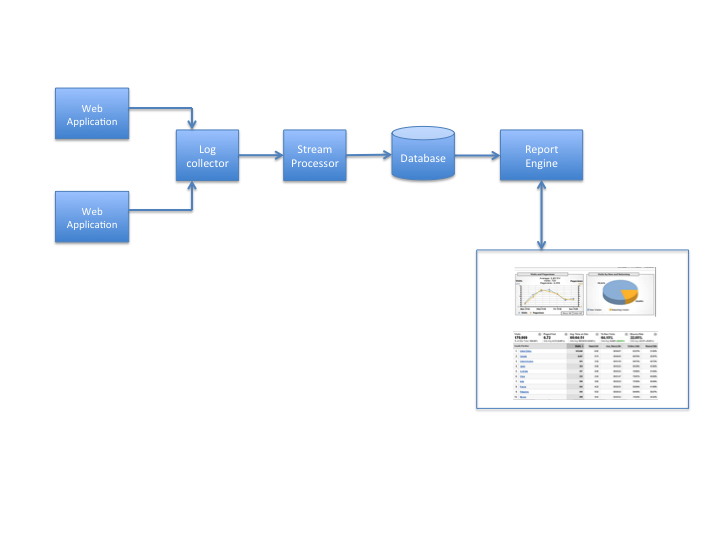
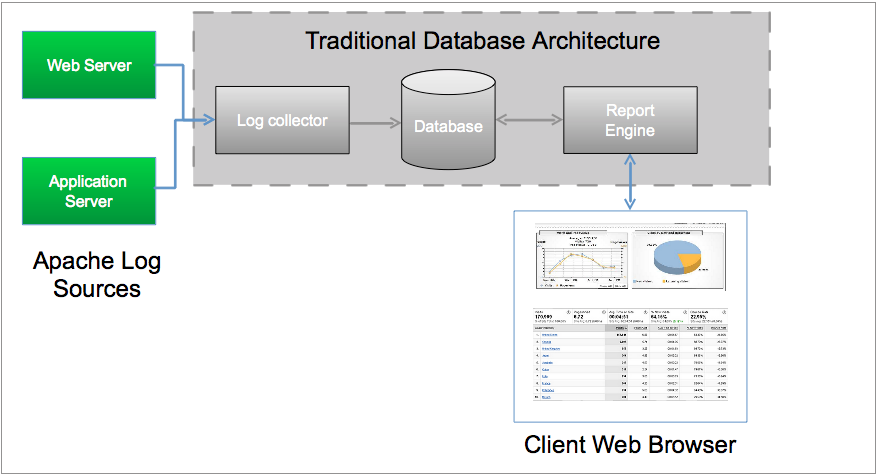
Revised intro with contributions from Raj; new diagrams

diff --git a/docs/developer-guide/source/intro.rst b/docs/developer-guide/source/intro.rst
@@ -9,98 +9,135 @@ Introduction to Continuuity Reactor
 
 .. reST Editor: contents::
 
-Big Data Applications
-=====================
-Big data applications are applications built to process unpredictable volumes and velocity of data. Building big data applications is challenging on many fronts — the following section will introduce some of the challenges in building big data applications.
+The Challenge of Big Data Applications
+======================================
+Data is compounding at a massive rate. Applications are becoming increasingly complex and data-intensive as developers try to extract value from the enormous trove of information. These applications, dubbed Big Data applications, scale with the unpredictable volume and velocity of incoming data with no need for re-architecting even while dealing with hundreds of petabytes of data. But building Big Data applications is difficult on many fronts.
 
-Challenges in Building Big Data Applications
---------------------------------------------
+The challenge of building big data applications are manifold:
 
-Challenges in building big data applications are manifold.
+Steep learning curve
+--------------------
 
-#. Expanding application development concerns in application and infrastructure level
+As an application developer building a data-intensive application, 
+you are primarily concerned with four areas:
 
-   One of the main challenges in building a Big Data application is that an application developer
-   has to focus not just on the application layer of code—the business logic—but also on the infrastructure layer,
-   making technical decisions about the underlying technology frameworks, which ones to use and how to integrate
-   them together into an effective application.
+ #. Data collection framework
+ #. Data processing framework
+ #. Data storage framework
+ #. Data serving framework
 
-#. Steeper learning curve
+There are many technology frameworks to choose from in each of these four areas.
+Data storage alone runs the gamut from open-source projects to proprietary relational databases.
+Evaluating the pros and cons of each of these technology frameworks, becoming competent,
+and then learning them to use them effectively requires climbing a very steep learning curve. 
 
-   Broadly speaking, the application developer will be concerned with developing four areas:
+No integrated framework, numerous integration points
+----------------------------------------------------
 
-   #. Data collection framework
-   #. Data processing framework
-   #. Data storage framework
-   #. Data serving framework
+One of the main challenges in building a Big Data application is that
+as an application developer you have to focus not only on the application layer of code
+but also on the the infrastructure layer. As highlighted above, 
+first you have to make choices about the underlying technology frameworks
+and then you need to spend time integrating the different pieces of technology
+together to start building your application. 
+Each of the technology frameworks come with their own APIs making it harder to integrate them quickly.
 
-   There are numerous technical choices in each of these four areas; understanding
-   and evaluating the pros and cons of each of the technical areas and learning them
-   to effectively build an application requires climbing a very steep learning curve.
+Lack of development tools
+-------------------------
 
-#. Various integration points
+Big data application development involves dealing with technology frameworks
+in a distributed system environment,
+and there is no development framework that makes it easy to develop, test and debug
+these types of applications. Debugging is especially difficult in a distributed environment.
+Sometimes you have no choice but to scan through hundred of lines of log files
+to debug your application.
 
-   Putting together technologies to collect, process, store and serve data
-   using different infrastructure components would require a huge integration
-   efforts from the application developer. Each of the components come with
-   their own APIs making it harder to integrate them quickly.
+No monitoring solutions
+-----------------------
 
-#. Operability of different infrastructure components
+Once your application is ready for production, you'll need to monitor and manage it.
+Operability of each of the technology frameworks presents its own set of challenges.
+A lack of proper tools makes application operations a full-time job.
 
-   Operability of each of the infrastructure components presents its own set
-   of challenges in developing monitoring and alerting solutions across different technology stacks. 
+In the next section, we will compare three application architectures and their pros and cons.
+This will give you a good understanding of the benefit of architecting Big Data applications using Continuuity Reactor.   
 
-#. Lack of development tools 
-
-   Big data application development involves dealing with many distributed system components,
-   and there is no development framework to make it easy to develop, test and debug these applications.
-   The lack of tools makes it especially difficult to debug applications in a distributed environment.
-
-
-Architecture Comparison: Building a Log Analytic Application
+Architecture Comparison: Building a Big Data Application
 ============================================================
-Consider a problem of building a realtime log analytic application that takes access log from Apache™ servers and computes simple analyses on the logs—such as computing throughput per second, error rates, finding the top referral sites.
+Consider the problem of building a realtime log analytic application that takes access logs from Apache™ servers and computes simple analyses on the logs, such as computing throughput per second, error rates or finding the top referral sites.
 
 Traditional Database Log Analysis Framework
 -------------------------------------------
-A traditional architecture that is not based on *Apache™ Hadoop®* will involve using a log collector that gathers logs from different application servers and then writes to a database, either flat-file or relational. A reporting framework acts as the processing layer to crunch the log signals into meaningful statistics and information.
+A traditional architecture will involve using a log collector that gathers logs from different application servers or sources and then writing to a database, either flat-file or relational. A reporting framework then acts as the processing layer to crunch the log signals into meaningful statistics and information.
 
+This is a good example of an application architecture that cannot scale with unpredictable volume and velocity of data.
 The disadvantages of this approach include:
 
 - Complexity of the application increases when processing large volumes of data
 - The architecture will not be horizontally scalable
-- Producing results in a realtime at high volume rate will prove quite challenging
+- Producing results in realtime at high-volume rates will prove challenging
 
 .. image:: /doc-assets/_images/ArchitectureDiagram_1.png
 
 Realtime Apache™ Hadoop®-based Log Analysis Framework
 ------------------------------------------------------
-To achieve horizontal scalability, the database architecture of the preceding design has evolved to include scalable log collection, 
-processing and storage layers. One of the most commonly used architectural patterns consists of *Apache Kafka* as the distributed log collection framework, *Storm* as the data processing layer, *Apache™ HBase™* as the storage layer of results and a custom serving layer reading the computed results for visualization by a presentation layer.
+To achieve horizontal scalability, the database architecture of the preceding design
+has evolved to include scalable log collection, processing and storage layers.
+
+One of the most commonly used architectural patterns consists of *Apache Kafka* as the distributed log collection framework, *Storm* as the data processing layer, *Apache™ HBase™* as the storage layer of results and a custom serving layer reading the computed results for visualization by a presentation layer. This is just a summary of the many
+components required to implement this solution. 
+(Don’t worry if you are not familiar with these technology frameworks.)
 
 The disadvantages of this approach include:
 
-- Need to integrate different systems
-- Operability of the different software stack
+- Steep learning curve
+- Difficult to integrate different systems
+- Lack of development tools
+- Operability of the composite software stack
 - No single unified architecture
 
 .. image:: /doc-assets/_images/ArchitectureDiagram_2.png
 
 Continuuity Reactor Log Analysis Framework
 ------------------------------------------
-Using **Continuuity Reactor™** introduces a clear separation between infrastructure components and application code. Reactor functions as a middle-tier application platform which exposes simple high level abstractions to perform data collection, processing, storage and serving. There is a single unified architecture to perform these four tasks, with interoperability designed into the framework. Horizontal scalability is derived from the underlying *Apache Hadoop* layer, while the **Continuuity Reactor** APIs reduce the application complexity and development time. 
+Designing Big Data applications using **Continuuity Reactor™** provides a clear separation 
+between infrastructure components and application code.
+
+Reactor functions as a middle-tier application platform, exposing simple, high-level abstractions to perform data collection, processing, storage and serving. A single unified architecture to perform these four tasks, with interoperability designed into the framework. Horizontal scalability is derived from the underlying *Apache Hadoop* layer, while the **Continuuity Reactor** APIs reduce the application complexity and development time. 
 
 .. image:: /doc-assets/_images/ArchitectureDiagram_3.png
 
 Continuuity Reactor Overview
 ============================
-**Continuuity Reactor** is a Java-based, integrated data and application framework that layers on top of Apache Hadoop®, Apache HBase, and other Hadoop ecosystem components. It surfaces the capabilities of the underlying infrastructure through simple Java and REST interfaces. Rather than piecing together different open source frameworks and runtimes to assemble a Big Data infrastructure stack, the Reactor provides an integrated platform that makes it easy to create the different elements of your Big Data application: collecting, processing, storing, and querying data. Data can be collected and stored in both structured and unstructured forms, processed in real-time or in batch, and then the results can be made available for retrieval and visualization.
+Under the covers, **Continuuity Reactor** is a Java-based, integrated data and application framework 
+that layers on top of Apache Hadoop®, Apache HBase, and other Hadoop ecosystem components. 
+It provides an application server over Hadoop  and a development framework that allows any Java developer
+to build Big Data applications.
 
-.. [DOCNOTE: Describe distinction between API and Runtime]
+Integrated Framework
+--------------------
+Rather than piecing together different open source frameworks and runtimes to assemble a Big Data infrastructure stack, the Reactor provides an integrated platform that makes it easy to create the different elements of your Big Data application: collecting, processing, storing, and querying data. Data can be collected and stored in both structured and unstructured forms, processed in real-time or in batch, and then the results can be made available for retrieval and visualization.
 
-Continuuity Reactor constitutes of both an elastic runtime application and a set of APIs for talking to the runtime and developing distributed Big Data applications.
+Simple APIs
+-----------
+Continuuity Reactor aims to reduce the time it takes to create and implement applications by hiding the complexity of these technologies with a set of powerful and simple APIs. You don’t need to be an expert on Big Data, nor do you need to worry about low-level Hadoop APIs.
 
-Continuuity Reactor aims to reduce the time it takes to create and implement applications by hiding the complexity of these technologies with a set of powerful and simple APIs.
+Full Development Lifecycle Support
+----------------------------------
+Reactor supports developers through the entire Big Data application development lifecycle:
+development, debugging, testing and production. 
+Using familiar development tools like *Eclipse* and *IntelliJ*,
+you can build, test and debug your application right on your laptop with a *Local Reactor*.
+Deploy it to the cloud (*Sandbox Reactor*) with a push of a button.
+
+Easy Application Operations
+---------------------------
+Once your Big Data application is in production, Reactor is designed specifically
+to scale with your data processing needs: increase capacity with a click without
+taking your application off line. Use the Reactor dashboard or REST APIs
+to monitor and manage your application.
+
+Now, let’s talk about the components within Reactor. Continuuity Reactor provides four basic abstractions:
 
 Reactor provides four basic abstractions:
 
@@ -121,7 +158,7 @@ We'll now take a look at the different components of the Reactor API. All Reacto
 Applications
 ------------
 
-An application is a collection of **Streams**, **DataSets**, **Flows**, **Procedures**, **MapReduce**, and **Workflows**. To create an application, you simply implement the Application interface. Here you specify the application metadata and declare and configure each application element::
+An Application is a collection of **Streams**, **DataSets**, **Flows**, **Procedures**, **MapReduce**, and **Workflows**. To create an Application, you simply implement the Application interface. Here you specify the Application metadata and declare and configure each Application element::
 
 	public class MyApp implements Application {
 	  @Override
@@ -145,7 +182,7 @@ An application is a collection of **Streams**, **DataSets**, **Flows**, **Proced
 	  }
 	}
 
-You can specify that an application does not use a particular element. In this code snippet, streams are not used::
+You can specify that an Application does not use a particular element. In this code snippet, Streams are not used::
 
 		 ...
 	      .setDescription("my sample app")
@@ -307,9 +344,7 @@ To use the DataSet in a flowlet or a procedure, instruct the runtime system to i
 	    counters.increment(key.getBytes());
 	  }
 
-The runtime system reads the DataSet specification for “myCounters” from the metadata store and injects a functional instance of the DataSet class.
-
-.. [DOCNOTE: elaborate]
+The runtime system reads the DataSet specification for “myCounters” from the metadata store and injects a functional instance of the DataSet class when the Application is deployed.
 
 You can implement custom DataSets by extending the DataSet base class or existing DataSet types.
 
@@ -340,7 +375,8 @@ Upon external call, the handler method receives the request and sends a response
 	}
 
 Further details about implementing Procedures are in the 
-`Continuuity Reactor Programming Guide <programming.html>`_. 
+`Continuuity Reactor Programming Guide <programming.html>`_.
+
+[DOCNOTE: FIXME! Add closing summary]
 
 .. include:: includes/footer.rst
-
